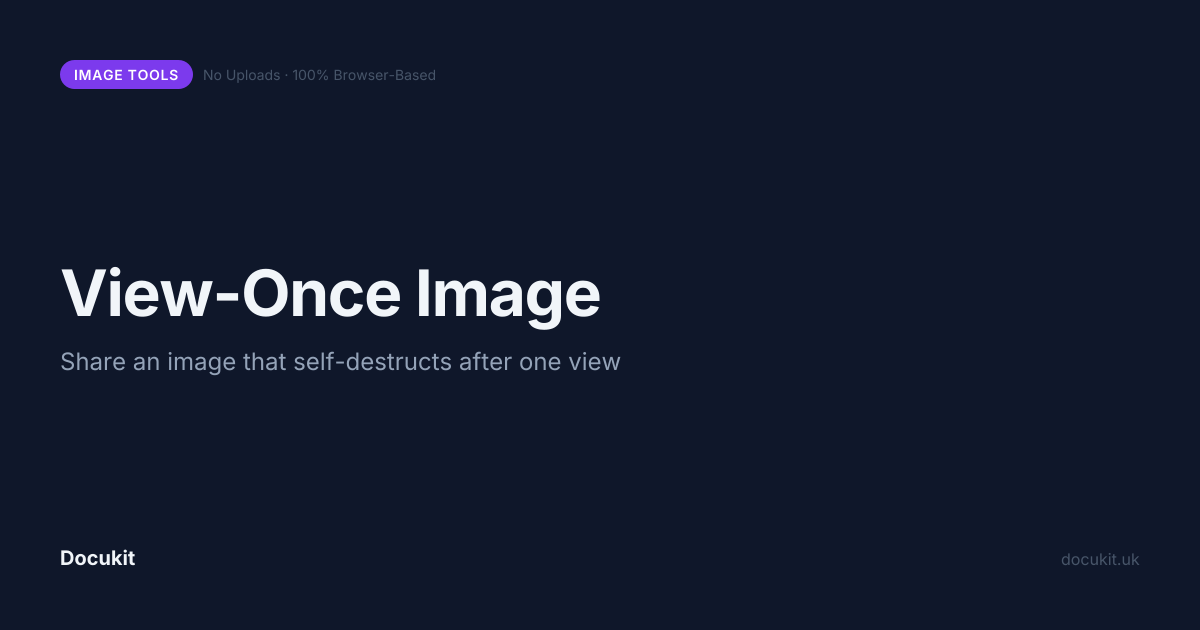
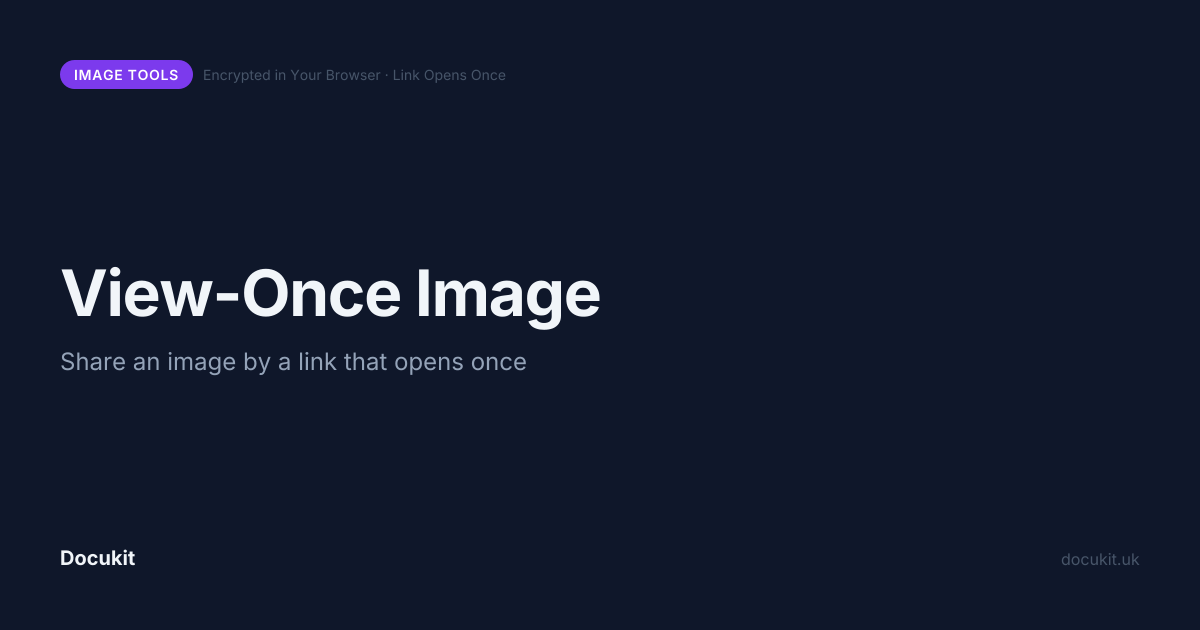
Say plainly that View-Once Image uploads an encrypted copy
The privacy page, the homepage hero, the footer and the View-Once share
image all said files never leave the device, which is false for
View-Once Image: it uploads the encrypted image and its expiry, and the
server sees the IP address of whoever uploads or opens it. The privacy
page now says what each part of the site really does, scoped to
Docukit's own code (no cookies, analytics or tracking scripts; theme and
saved sizes stay in browser storage). The homepage description drops
"no limits" (Merge takes 50 files, View-Once 10 MB, Resize 10,000 px).

Changed region(s): [[0.2158, 0.5429, 0.5242, 0.6032], [0.185, 0.0905, 0.3083, 0.1508], [0.3392, 0.0905, 0.37, 0.1508]]

diff --git a/scripts/generate-og-images.ts b/scripts/generate-og-images.ts
@@ -33,6 +33,16 @@ const CATEGORY_COLORS: Record<string, string> = {
   image: '#7C3AED',
 };
 
+/**
+ * The line beside the category badge. View-Once Image is the one tool that
+ * uploads anything (the encrypted image), so it cannot claim "No Uploads".
+ */
+function taglineFor(slug: string): string {
+  return slug === 'view-once-image'
+    ? 'Encrypted in Your Browser · Link Opens Once'
+    : 'No Uploads · 100% Browser-Based';
+}
+
 async function generateOgImage(slug: string, name: string, description: string, category: string): Promise<void> {
   const accent = CATEGORY_COLORS[category] ?? '#1A56DB';
   const categoryLabel = category === 'pdf' ? 'PDF Tools' : 'Image Tools';
@@ -82,7 +92,7 @@ async function generateOgImage(slug: string, name: string, description: string, 
                   type: 'div',
                   props: {
                     style: { color: '#475569', fontSize: '14px' },
-                    children: 'No Uploads · 100% Browser-Based',
+                    children: taglineFor(slug),
                   },
                 },
               ],
